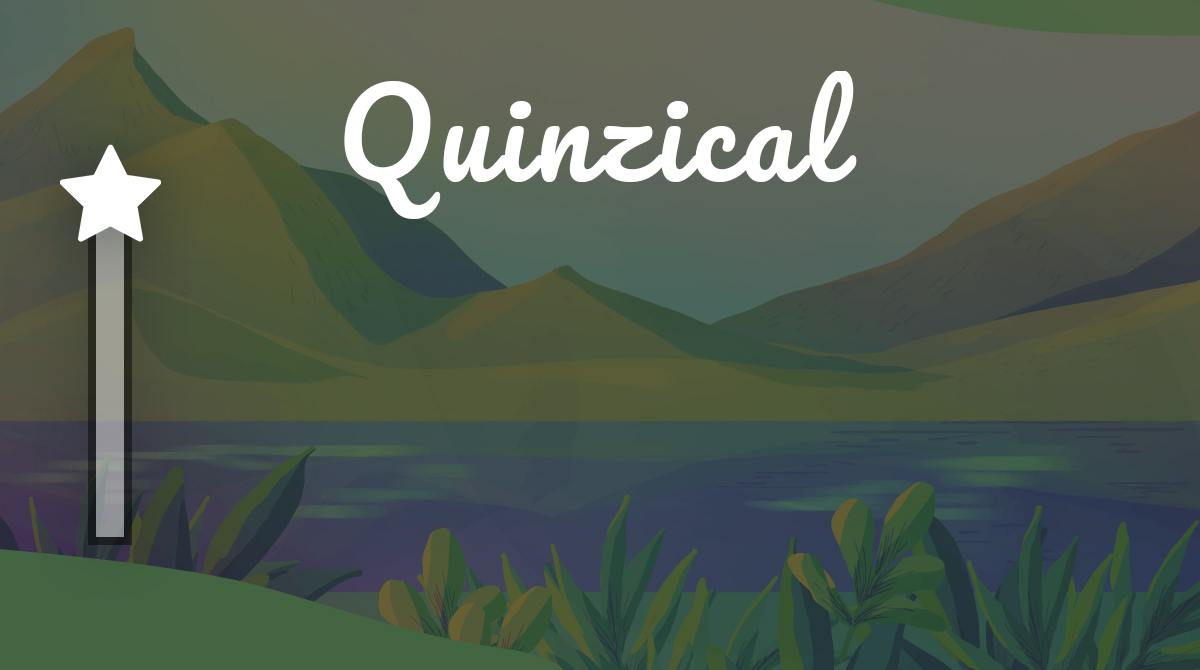
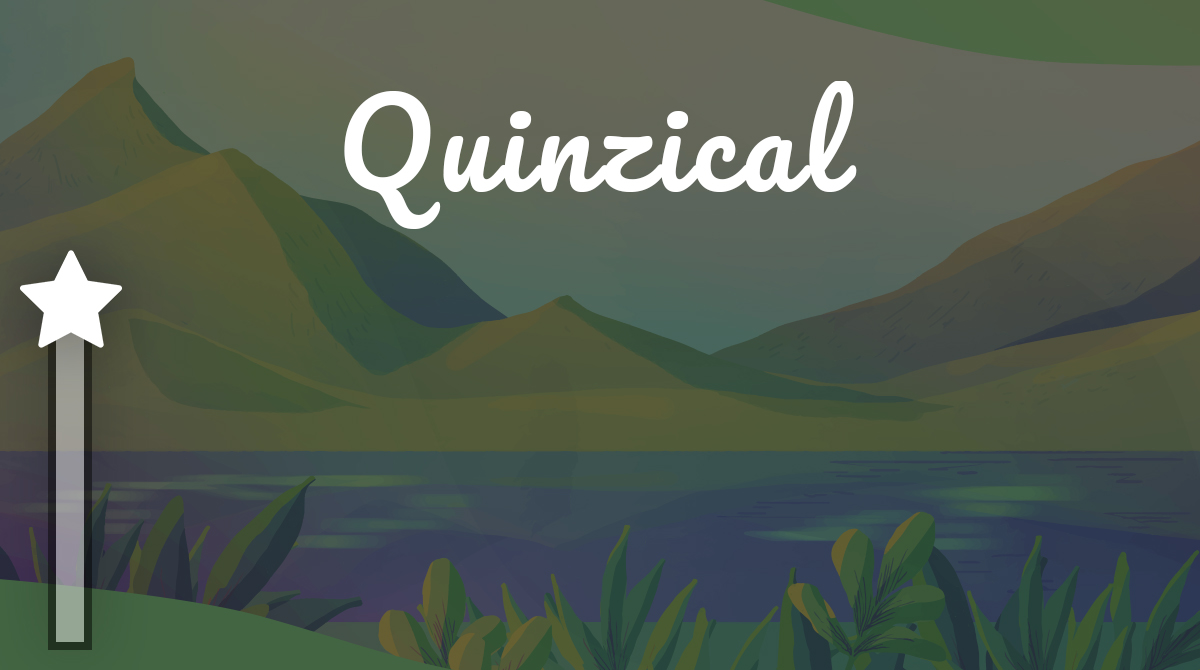
changed layout of main menu, implemented marked category.

diff --git a/src/quinzical/frontend/styles/PracticeModule.css b/src/quinzical/frontend/styles/PracticeModule.css
@@ -3,12 +3,12 @@
 }
 
 .categoryButton {
-    -fx-font-size: 21;
+    -fx-font-size: 20;
     -fx-pref-width: 195;
     -fx-pref-height: 84;
     -fx-wrap-text: true;
     -fx-text-fill: white;
-    -fx-background-radius: 10;
+    -fx-background-radius: 10px;
     -fx-text-alignment: center;
     -fx-background-color: #288F5A;
     -fx-font-family: "Poppins Medium";
@@ -16,4 +16,10 @@
 
 .categoryButton:hover {
     -fx-background-color: #247F50;
+}
+
+.markedButton {
+    -fx-border-width: 6px;
+    -fx-border-color: pink;
+    -fx-border-radius: 10px;
 }

diff --git a/src/quinzical/frontend/controllers/PracticeModuleController.java b/src/quinzical/frontend/controllers/PracticeModuleController.java
@@ -1,5 +1,8 @@
 package quinzical.frontend.controllers;
+import javafx.scene.image.Image;
+import javafx.scene.image.ImageView;
 import quinzical.backend.models.Clue;
+import quinzical.backend.models.Category;
 import quinzical.frontend.helper.ScreenType;
 import quinzical.frontend.helper.ScreenSwitcher;
 import quinzical.backend.database.PracticeDatabase;
@@ -67,8 +70,15 @@ public class PracticeModuleController implements Initializable {
                 // Getting the information of the current category and creating its button.
                 String category = _db.getCategory(tracker).getName();
                 Button button = new Button(category);
+                button.setWrapText(true);
                 button.getStyleClass().add("categoryButton");
                 button.getStylesheets().add(getClass().getClassLoader().getResource("quinzical/frontend/styles/PracticeModule.css").toExternalForm());
+
+                // Applying different styles to mark the category that needs to be practised.
+                Category marked = _db.getBadCate();
+                if (marked != null && category.equals(marked.getName())) {
+                    button.getStyleClass().add("markedButton");
+                }
 
                 int finalTracker = tracker;
                 button.setOnAction(action -> {

diff --git a/src/quinzical/frontend/controllers/GameClueController.java b/src/quinzical/frontend/controllers/GameClueController.java
@@ -1,5 +1,6 @@
 package quinzical.frontend.controllers;
 import quinzical.backend.Progression;
+import quinzical.backend.database.PracticeDatabase;
 import quinzical.backend.models.Clue;
 import quinzical.frontend.helper.Speaker;
 import quinzical.frontend.helper.ScreenType;
@@ -144,6 +145,9 @@ public class GameClueController implements Initializable {
             // Adding to the count of total incorrect answers.
             progression.answeredWrongPlus();
             message = "Oh no! The correct answer was " + _clue.getAnswersList().get(0);
+
+            // Set this question as "needs practice" on Practice Module.
+            PracticeDatabase.getInstance().setBadCate(_clue.getCategory());
 
             // Hiding the timer label, because its not needed anymore.
             timerLabel.setVisible(false);
